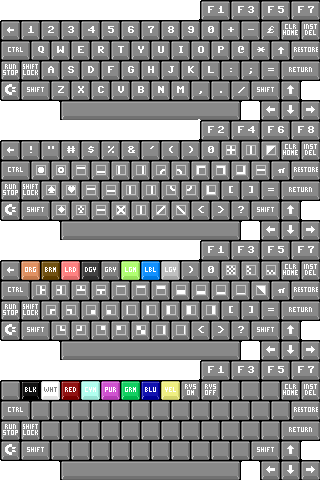
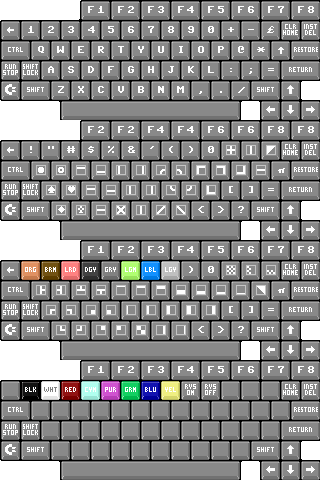
all 8 F-Keys on keyboard

diff --git a/source/arch/sdl/uibottom.c b/source/arch/sdl/uibottom.c
@@ -57,10 +57,14 @@ uikbd_key uikbd_keypos[] = {
 	{ 192, 60,  64,  60, 239,   0,   0,   0,  1,  "SButton9"},
 	{ 256, 60,  64,  60, 240,   0,   0,   0,  1,  "SButton10"},
 	// F-Keys
-	{ 201,  1,  30,  20, 133,   0,   4,   0,  0,  "F1"}, // F1 / F2
-	{ 231,  1,  30,  20, 134,   0,   5,   0,  0,  "F3"}, // F3 / F4
-	{ 261,  1,  30,  20, 135,   0,   6,   0,  0,  "F5"}, // F5 / F6
-	{ 291,  1,  29,  20, 136,   0,   3,   0,  0,  "F7"}, // F7 / F8
+	{  81,  1,  30,  20, 133,   0,   4,   0,  0,  "F1"}, // F1
+	{ 111,  1,  30,  20, 137,   0,   4,   0,  0,  "F2"}, // F2
+	{ 141,  1,  30,  20, 134,   0,   5,   0,  0,  "F3"}, // F3
+	{ 171,  1,  30,  20, 138,   0,   5,   0,  0,  "F4"}, // F4
+	{ 201,  1,  30,  20, 135,   0,   6,   0,  0,  "F5"}, // F5
+	{ 231,  1,  30,  20, 139,   0,   6,   0,  0,  "F6"}, // F6
+	{ 261,  1,  30,  20, 136,   0,   3,   0,  0,  "F7"}, // F7
+	{ 291,  1,  29,  20, 140,   0,   3,   0,  0,  "F8"}, // F8
 	// top row	
 	{   1, 21,  20,  20,  95,   7,   1,   0,  0,  "ArrowLeft"}, // <-
 	{  21, 21,  20,  20,  49,   7,   0,   0,  0,  "1"}, // 1 / !
@@ -129,7 +133,7 @@ uikbd_key uikbd_keypos[] = {
 	// Cursor Keys
 	{ 281, 81,  20,  20,  30,   0,   7,   0,  0,  "C_UP"}, // DOWN
 	{ 301,101,  19,  19,  29,   0,   2,   0,  0,  "C_RIGHT"}, // RIGHT
-	{ 281,101,  20,  19,  17,   0,   2,   0,  0,  "C_DOWN"}, // UP
+	{ 281,101,  20,  19,  17,   0,   7,   0,  0,  "C_DOWN"}, // UP
 	{ 261,101,  20,  19,  31,   0,   2,   0,  0,  "C_LEFT"}, // LEFT
 	// Finish
 	{   0,  0,   0,   0,   0,   0,   0,   0,  0,  ""}
